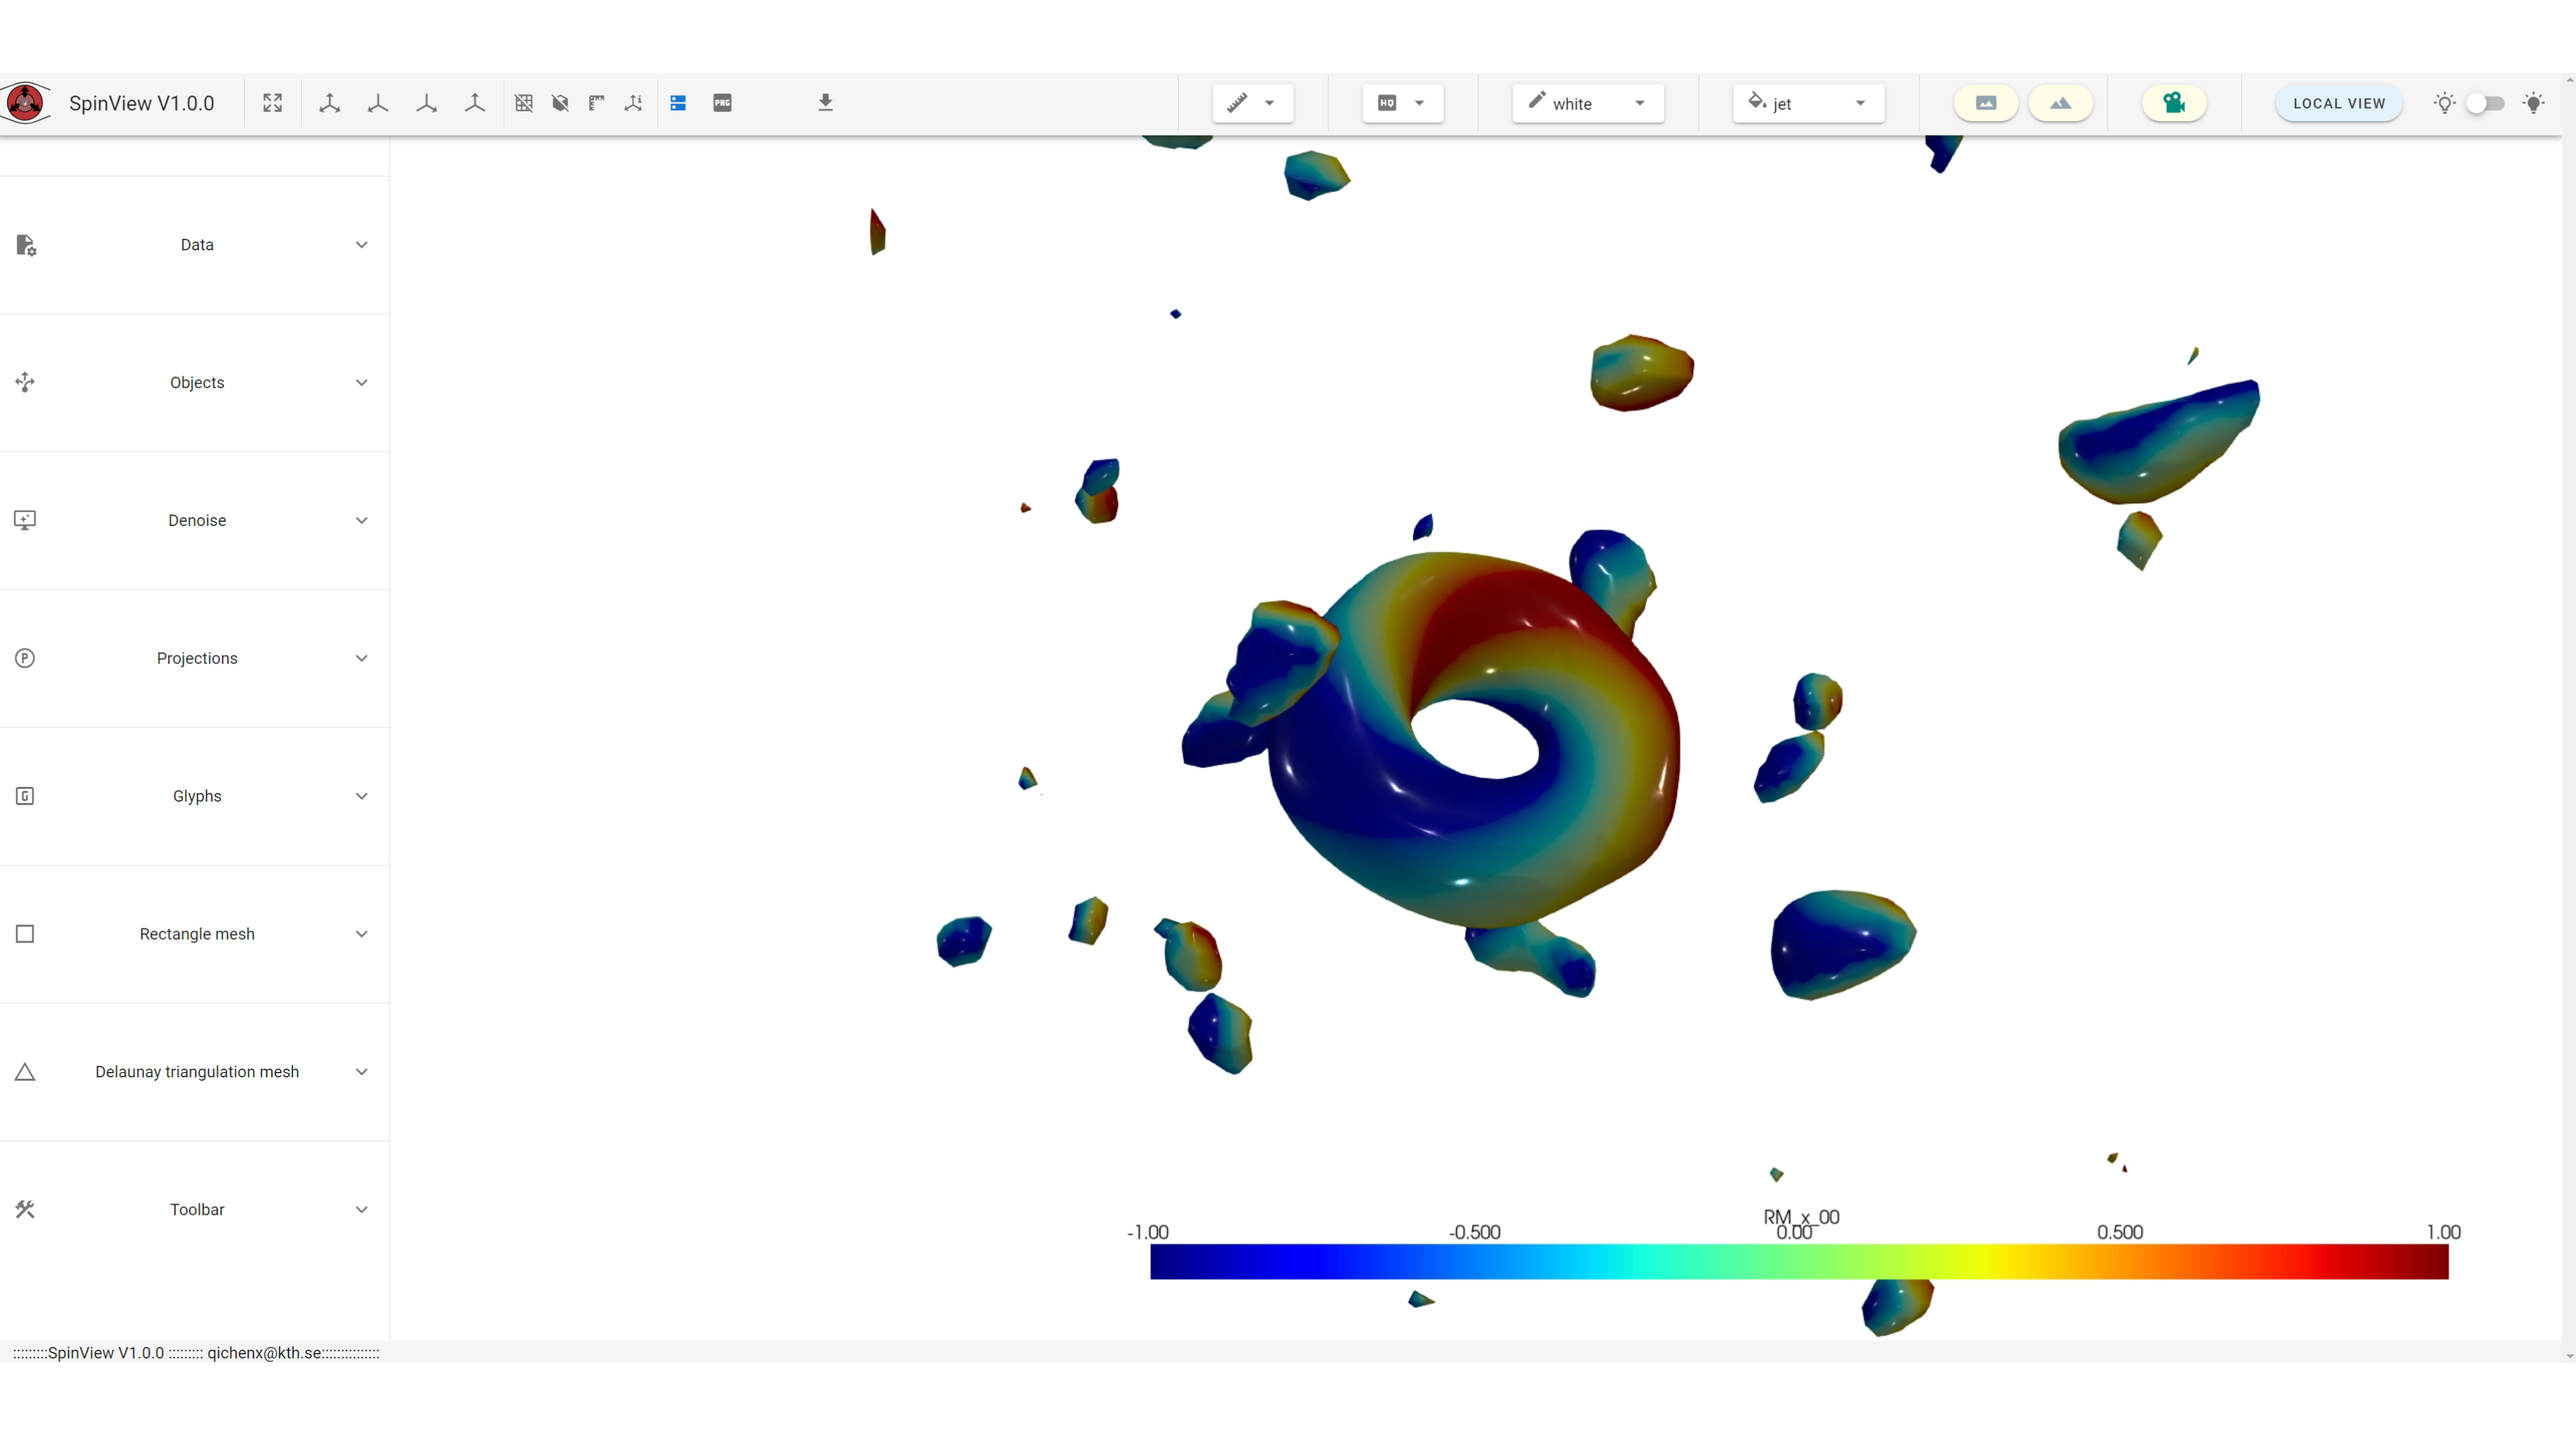
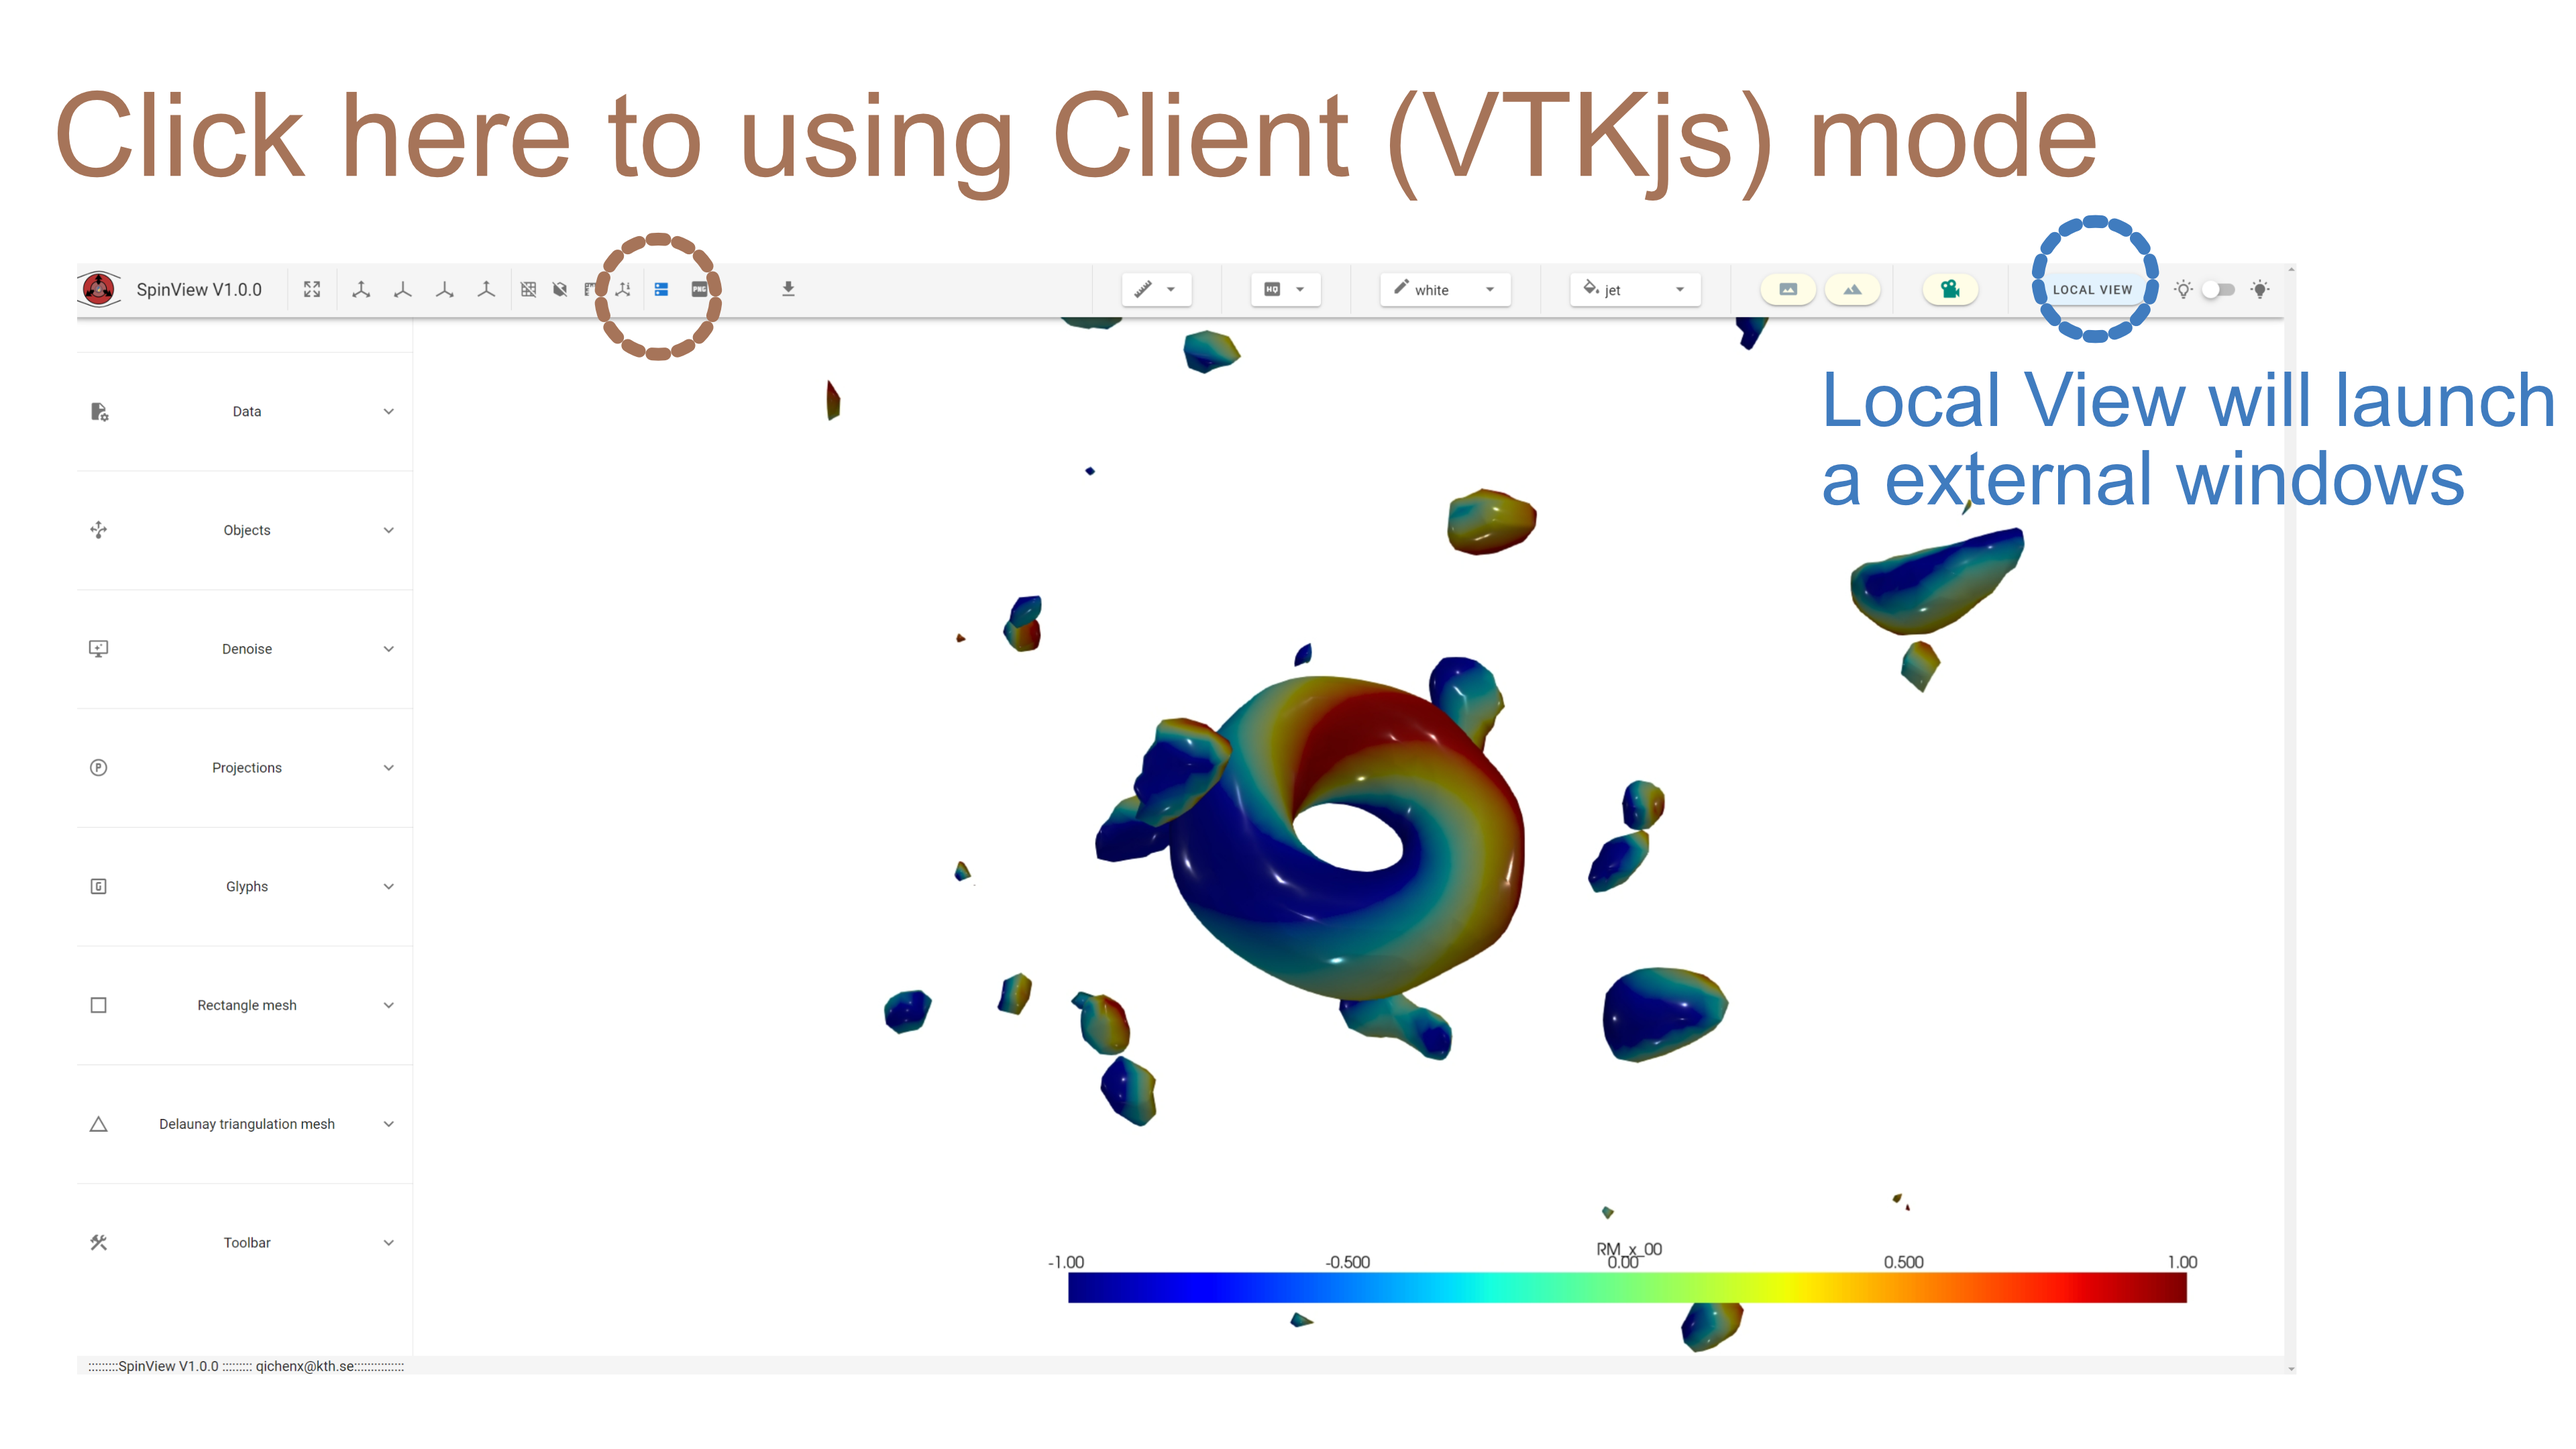
new installation

diff --git a/docs/installation.md b/docs/installation.md
@@ -29,18 +29,24 @@ $ pip install spinview
 ---> 100%
 Successfully installed spinview
 ```
-## 3. launch SpinView in simulation folder under auto mode using the following command:
+</div>
+
+## 4. launch SpinView in simulation folder under auto mode using the following command:
+
 
 <div class="termy">
 ```console
 $ spinview start
 ```
-
+</div>
 
 <div style="text-align: center;">
 <img width=500, height=300 src="/SpinView/assets/home.png" draggable="false">
 </div>
 
+Note:
 
-</div>
+1. When using Client(VTKjs) mode, manually reload the webpage is needed. 
+2. Suggest to use local view instead of increase the quality of server mode.
+
 
